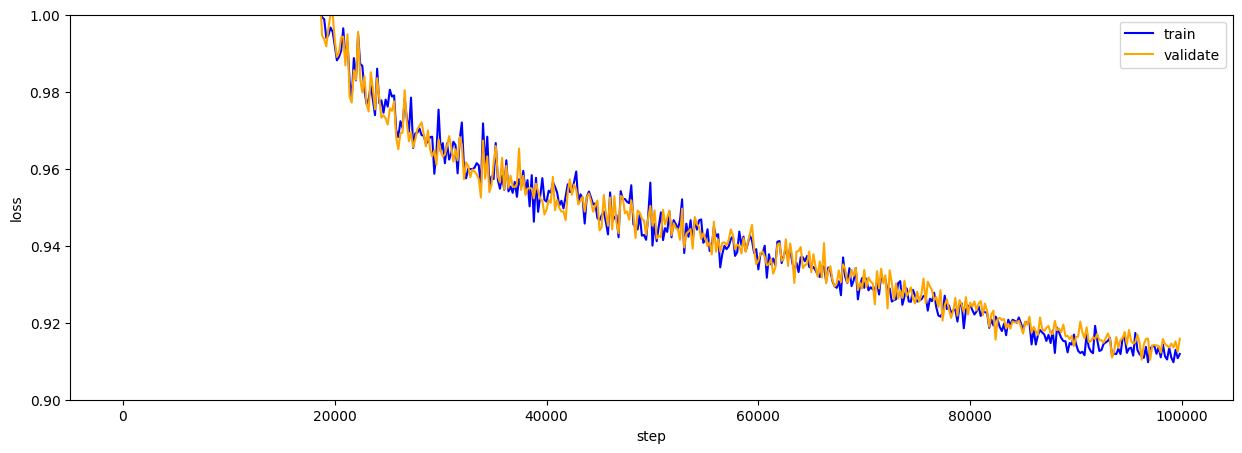
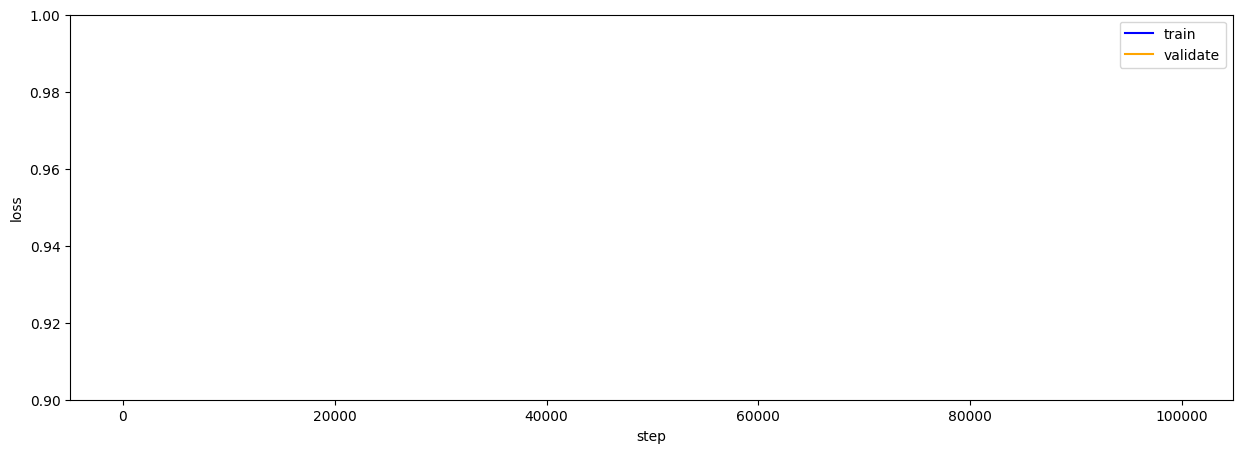
working model

Changed region(s): [[0.2448, 0.0309, 0.9485, 0.8035]]

diff --git a/train.py b/train.py
@@ -14,7 +14,6 @@ from src.utils import save_checkpoint
 torch.manual_seed(1)
 
 
-
 OUTPUT_DIR = "/home/james/multi"
 
 # load the data
@@ -27,14 +26,11 @@ with open(f"{OUTPUT_DIR}/data/rel_positions_data.pkl", "rb") as f:
 with open(f"{OUTPUT_DIR}/data/rel_traffic_data.pkl", "rb") as f:
     rel_traffic_data = pickle.load(f)
 
-
-# # replace the inf values with 0
-# replace_dict = {np.inf: 0}
-# for key, value in replace_dict.items():
-#     rel_positions_data[rel_positions_data == key] = value
-#     rel_traffic_data[rel_traffic_data == key] = value
-
-# print(rel_traffic_data.shape)
+# replace the inf values with 0
+replace_dict = {np.inf: 0}
+for key, value in replace_dict.items():
+    rel_positions_data[rel_positions_data == key] = value
+    rel_traffic_data[rel_traffic_data == key] = value
 
 rel_traffic_data = rel_traffic_data.reshape(len(headings_data), config["context_length"]+1, 2*config["n_aircraft"])
 # rel_traffic_data = rel_traffic_data.squeeze(axis=2)
@@ -151,9 +147,6 @@ def estimate_loss():
     model.train()
 
     return out
-
-
-
 
 
 

diff --git a/src/config.py b/src/config.py
@@ -17,7 +17,6 @@ config = {
     # bias towards continuing present heading
     "bias": 0.5,
 
-
     # model 
 
     # vocab_size = number of possible headings, plus ss token and pad token
@@ -60,6 +59,6 @@ config = {
     "save_dir": "checkpoints",
 
     # device
-    "device": "cuda" if __import__('torch').cuda.is_available() else "cpu",
+    "device": "cuda" if __import__("torch").cuda.is_available() else "cpu",
 
 }